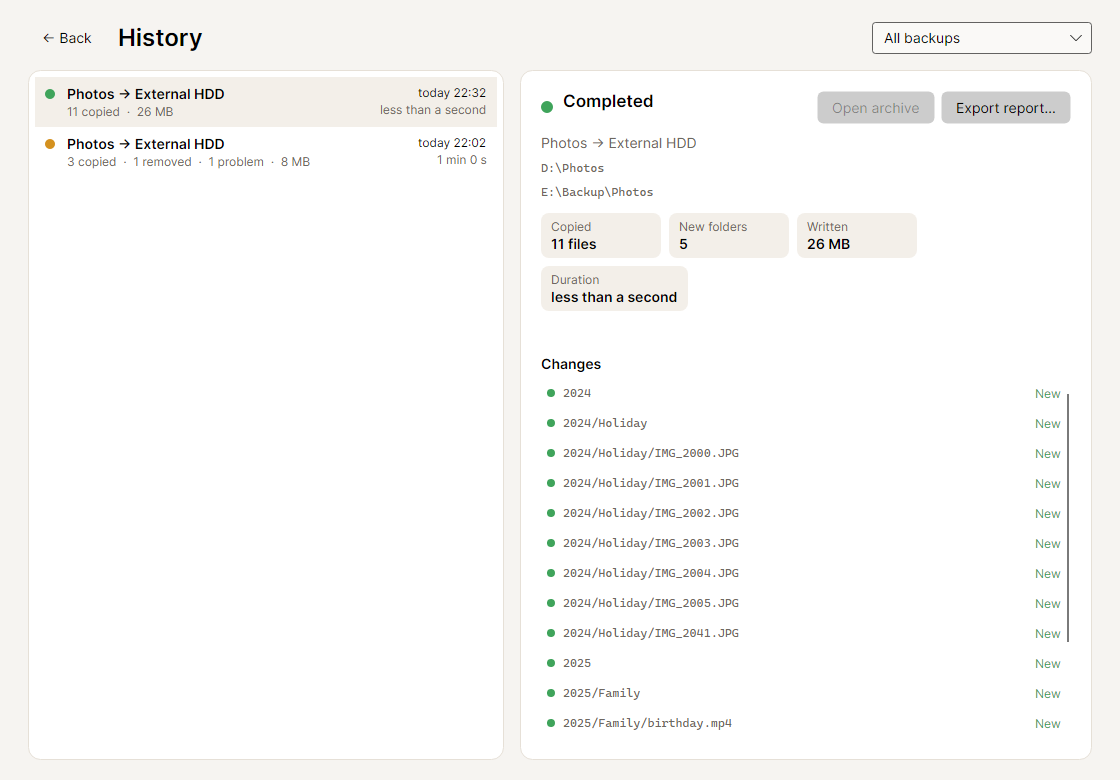
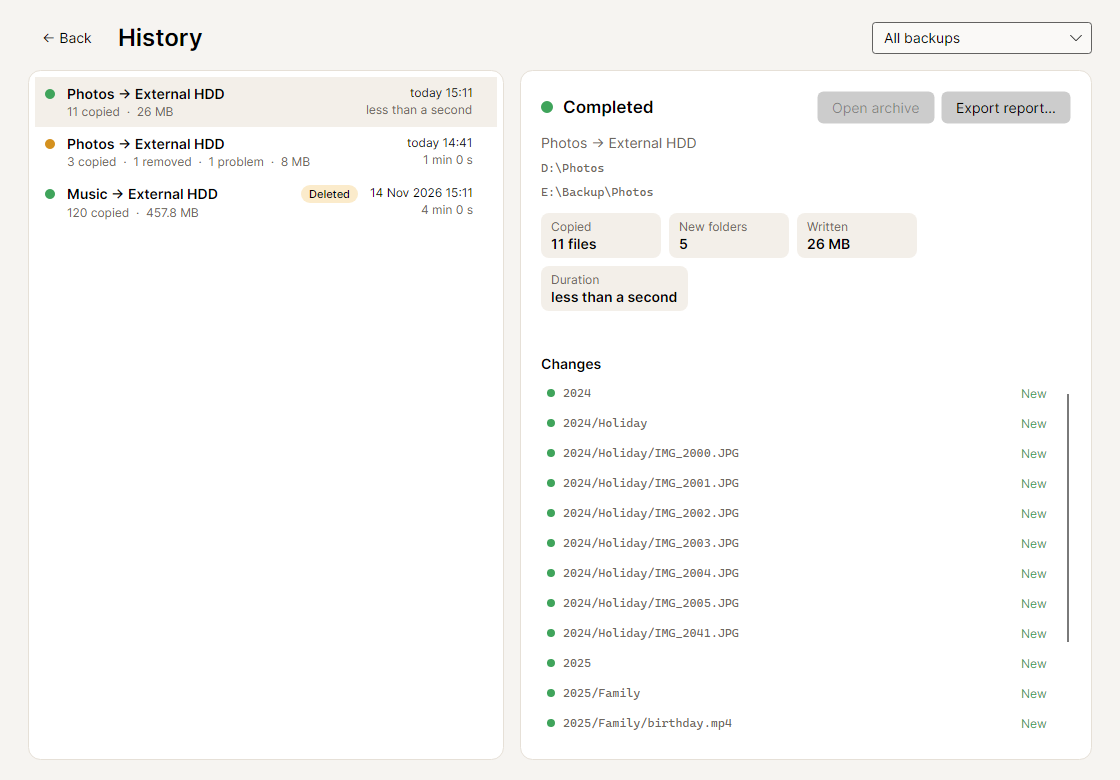
Prepare for publishing; version 1.1.0
- Version 1.1.0 is the first public release: CHANGELOG merges the
  earlier unreleased 1.1.0 changes with Continue in background and the
  History fixes.
- SECURITY.md (private vulnerability reports, scope of the safety
  guards) and CONTRIBUTING.md (bug reports, build and test, the rules
  that keep backups safe); README links to both.
- SPEC status and chapter 8 updated.
- README images rendered again from the current UI.

diff --git a/SPEC.md b/SPEC.md
@@ -1,6 +1,6 @@
 # Amberkeep – specification
 
-> Status: version 1.1.0 (2026-11-16). Chapter 8 lists what is done and what comes later.
+> Status: version 1.1.0 (2026-11-17), the first public release. Chapter 8 lists what is done and what comes later.
 
 ## 1. Purpose
 
@@ -443,7 +443,7 @@ Paid Avalonia add-ons (Accelerate, XPF) are not used.
 7. ✅ **Packaging → version 1.0 (Windows):** icon, portable zip for win-x64 (self-contained exe and 3 native DLLs), exe metadata, GPL v3 license and notices in About. Done 2026-11-14 (chapter 7.1).
    - ✅ **Fixes 1.0.1:** changes after the first test (window size, autoscroll, fields, labels, guard OR, weekly and monthly schedule) and fixes from a review of the whole code (path aliases, program folder, Clean up, Unicode forms, name collisions, invalid values, Windows sign-out, Quit, run lock, error log, current job, root target). Done 2026-11-14.
    - ✅ **Fixes 1.0.2:** second review of the whole code: check for a path returning to the source by the backup's rules, shared folders of this computer, links above an item, *Clean up* never locks the program, import and moved target checked against other backups, fixing schedule values, schedule start, the window does not freeze on an unavailable network, the backup screen does not get stuck, *Quit* always exits. Done 2026-11-14.
-8. ✅ **Version 1.1.0:** *Show in source folder* / *Show in target folder* in the diff (chapter 6.1). Repository: English SPEC, README with screenshots and `CHANGELOG.md`. Fixes from a security audit: import shows a summary of each backup before importing, archive browser and restore never go through links, names Windows changes are skipped, a refused write fails only its item, exclusion patterns match in linear time, damaged history records are read safely. Done 2026-11-16.
+8. ✅ **Version 1.1.0 (first public release):** *Show in source folder* / *Show in target folder* in the diff (chapter 6.1), *Continue in background* on the backup page, runs of a deleted backup stay in History (chapter 4.8). Repository: English SPEC, README with screenshots, `CHANGELOG.md`, `SECURITY.md` and `CONTRIBUTING.md`; the history before publishing is condensed into one commit per version, with tags `v1.0.0` to `v1.1.0`. Fixes from a security audit: import shows a summary of each backup before importing, archive browser and restore never go through links, names Windows changes are skipped, a refused write fails only its item, exclusion patterns match in linear time, damaged history records are read safely. Done 2026-11-17.
 
 **After version 1.0 (later phases):**
 

diff --git a/CONTRIBUTING.md b/CONTRIBUTING.md
@@ -1,0 +1,38 @@
+# Contributing
+
+Thanks for your interest in Amberkeep. Bug reports and ideas are welcome as [issues](../../issues). For security problems, see [SECURITY.md](SECURITY.md) instead.
+
+## Reporting a bug
+
+Please include the Amberkeep version (*Settings → About*), the Windows version, the steps to reproduce and what you expected. A run report from *History → Export report…* helps a lot; remove anything private from it first.
+
+## Pull requests
+
+For anything larger than a small fix, please open an issue first, so we can agree on the approach before you spend time on it.
+
+Build and test:
+
+```bash
+dotnet build
+dotnet test
+```
+
+The build must pass with no warnings (warnings are errors) and all tests must be green. [`SPEC.md`](SPEC.md) describes the intended behavior; if a change alters it, update `SPEC.md` in the same pull request, and add a line to [`CHANGELOG.md`](CHANGELOG.md) under *Unreleased*.
+
+Rules that keep backups safe:
+
+1. **Never write to a source folder.** No temporary files, markers, caches or archives on the source.
+2. On a target, the program's own files live only in `<target>/.amberkeep/`.
+3. Settings, history and state live next to the executable. No AppData, no registry (except the optional autostart entry).
+4. Copy to a temporary name, then rename. Program files are written atomically.
+5. Every safety guard (SPEC chapter 4.5) is covered by tests. Tests work only in temporary folders, never on real data.
+6. Nothing is specific to one computer: no hard-coded drives or paths.
+
+Other conventions:
+
+- Code, comments, UI texts and commit messages are in English.
+- View models do not depend on Avalonia, so they can be tested without the UI. Views use compiled bindings (`x:DataType`).
+- New dependencies must have a permissive license (MIT, Apache 2.0, BSD) and be listed in `THIRD-PARTY-NOTICES.txt` if they ship with the program.
+- After UI changes, render the screens with `dotnet run --project tools/Amberkeep.Screenshots` and look at them in light and dark.
+
+By contributing you agree that your contribution is licensed under the [GNU GPL v3](LICENSE), like the rest of Amberkeep.

diff --git a/SECURITY.md b/SECURITY.md
@@ -1,0 +1,25 @@
+# Security policy
+
+Amberkeep writes to backup disks and reads your folders, so a bug that could change or delete data in the wrong place is treated as a security issue.
+
+## Supported versions
+
+Only the latest release gets fixes. Please check that the problem still happens with it.
+
+## Reporting a vulnerability
+
+Please **do not open a public issue**. Use **Report a vulnerability** on the repository's *Security* tab instead; only the maintainer sees the report.
+
+Helpful details:
+
+- Amberkeep version (*Settings → About*) and Windows version,
+- what you did, what happened and what you expected,
+- the file systems involved (NTFS, exFAT, network share, …) and any links, junctions or `subst` drives on the paths.
+
+Please leave out the contents of your files and real folder names you do not want to share; a small example folder that shows the problem is best.
+
+You will get an answer within a few days. Once a fix is released, the report can be made public together with the release notes.
+
+## Scope
+
+[SPEC.md, chapter 4.5](SPEC.md#45-safety-guards) describes what the safety guards protect against. In short: Amberkeep must never write to a source folder, never write outside the target folder and its own `.amberkeep` folder, and never act through links or aliased paths in a way that touches other data. It assumes the computer itself is under the user's control; another account or malware that can write to the program folder or the disks while Amberkeep runs is outside its scope.

diff --git a/README.md b/README.md
@@ -26,6 +26,7 @@
   <a href="#download-and-start">Download</a> ·
   <a href="#quick-start">Quick start</a> ·
   <a href="#building-from-source">Building</a> ·
+  <a href="#contributing">Contributing</a> ·
   <a href="#license">License</a>
 </p>
 
@@ -192,6 +193,10 @@ docs/images/            README images (from the Screenshots and IconGen tools)
 The code is cross-platform (.NET + Avalonia), but only the Windows build is packaged and tested so far. Linux and macOS builds are planned.
 
 What changed in each version: [`CHANGELOG.md`](CHANGELOG.md).
+
+## Contributing
+
+Bug reports and ideas are welcome as [issues](../../issues); see [`CONTRIBUTING.md`](CONTRIBUTING.md). Please report security problems privately, as described in [`SECURITY.md`](SECURITY.md).
 
 ## License
 

diff --git a/CHANGELOG.md b/CHANGELOG.md
@@ -2,7 +2,9 @@
 
 All notable changes to Amberkeep. Versions follow [Semantic Versioning](https://semver.org/).
 
-## [Unreleased]
+## [1.1.0] – 2026-11-17
+
+First public release.
 
 ### Added
 
@@ -76,6 +78,7 @@ First version, for Windows (portable zip, win-x64).
 - Background mode in the tray: runs when a disk is connected or on a schedule, with notifications.
 - One-time run, history with HTML/text reports, export and import of backups, *Clean up everything*.
 
+[1.1.0]: ../../compare/v1.0.2...v1.1.0
 [1.0.2]: ../../compare/v1.0.1...v1.0.2
 [1.0.1]: ../../compare/v1.0.0...v1.0.1
 [1.0.0]: ../../releases/tag/v1.0.0
